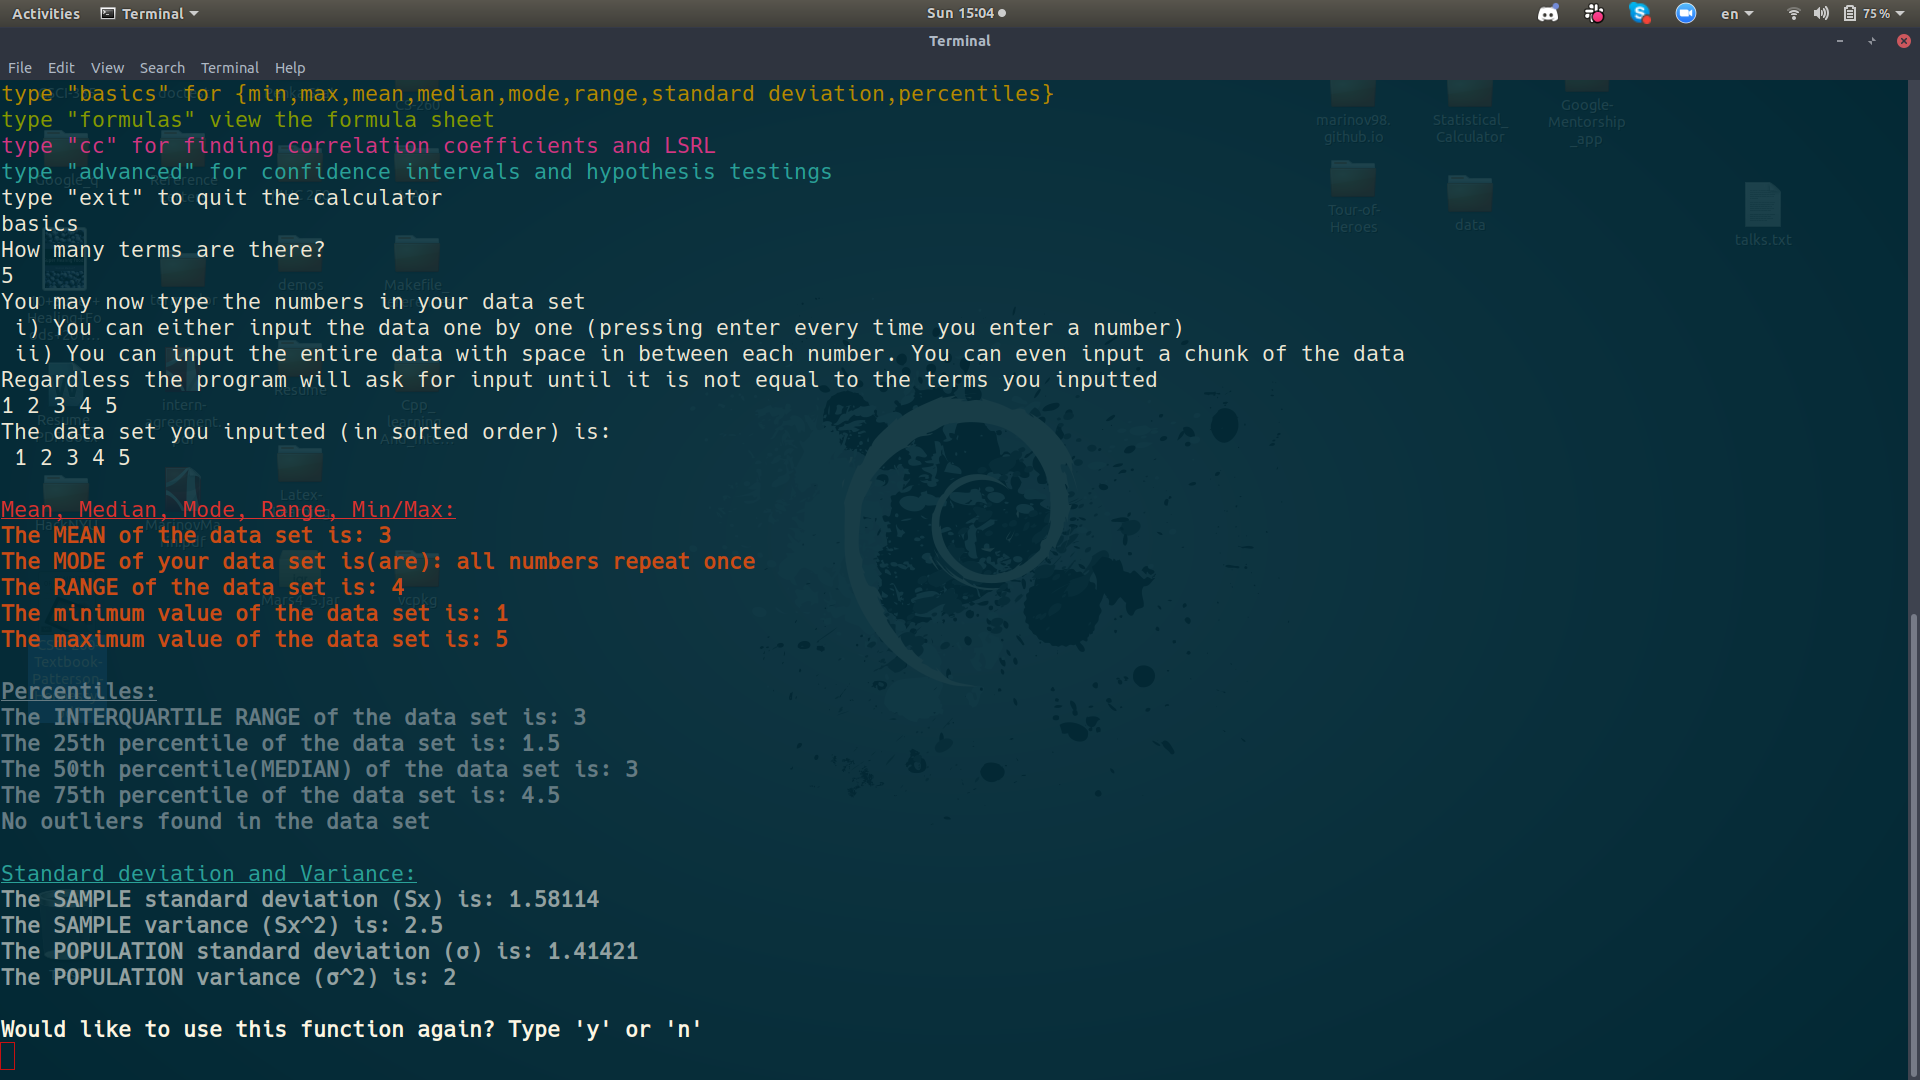
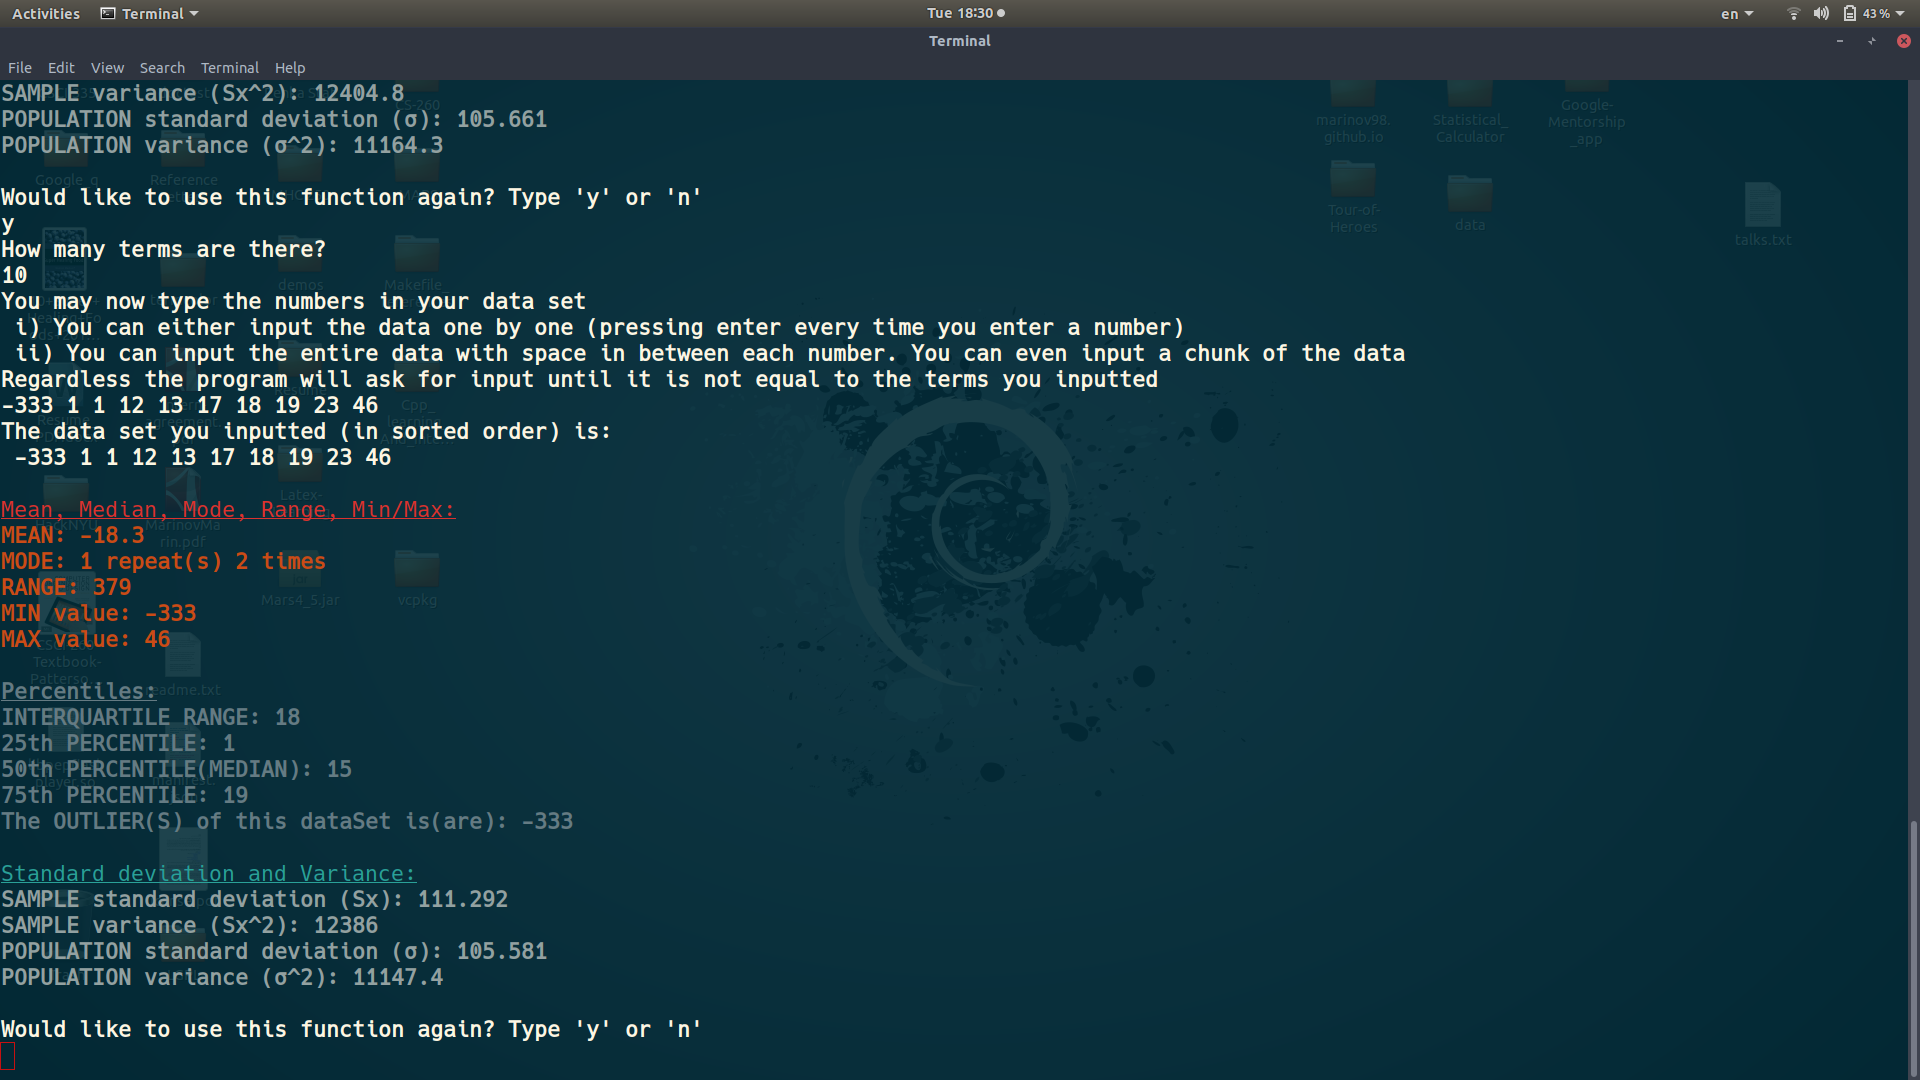
removed uneccessary parameter and added better pictures

diff --git a/src/correlation.cpp b/src/correlation.cpp
@@ -28,33 +28,38 @@ void displayDatasetXY(const std::vector<double>& datasetX, const std::vector<dou
 }
 
 double calculateCorrelationCoefficient(const std::vector<double>& datasetX,
-                                       const std::vector<double>& datasetY,
-                                       const int terms) {
+                                       const std::vector<double>& datasetY) {
+	if (datasetX.size() != datasetY.size())
+		throw std::runtime_error("dataset sizes do not match!");
+
 	double sum = 0.0;
-	double x = calculateMean(datasetX, terms);
-	double y = calculateMean(datasetY, terms);
-	double sdX = calculateStandardDeviation(datasetX, terms).sample;
-	double sdY = calculateStandardDeviation(datasetY, terms).sample;
+	double x = calculateMean(datasetX);
+	double y = calculateMean(datasetY);
+	double sdX = calculateStandardDeviation(datasetX).sample;
+	double sdY = calculateStandardDeviation(datasetY).sample;
 
 	if (sdX == 0 || sdY == 0)
 		throw std::runtime_error("Attempted to divide by 0\n");
 
-	for (int i = 0; i < terms; i++) {
+	for (size_t i = 0; i < datasetX.size(); i++) {
 		sum += (((datasetX[i] - x) / sdX) * ((datasetY[i] - y) / sdY));
 	}
 
-	return (sum / (terms - 1));
+	return (sum / (datasetX.size() - 1));
 }
 
 double calculateSlope(const std::vector<double>& datasetX,
-                      const std::vector<double>& datasetY,
-                      const int terms) {
+                      const std::vector<double>& datasetY) {
+
+	if (datasetX.size() != datasetY.size())
+		throw std::runtime_error("dataset sizes do not match!");
+
 	double top = 0.0;
 	double bottom = 0.0;
-	double x = calculateMean(datasetX, terms);
-	double y = calculateMean(datasetY, terms);
+	double x = calculateMean(datasetX);
+	double y = calculateMean(datasetY);
 
-	for (int i = 0; i < terms; i++) {
+	for (size_t i = 0; i < datasetX.size(); i++) {
 		double temp = (datasetX[i] - x);
 		bottom += (temp * temp);
 		top += ((datasetX[i] - x) * (datasetY[i] - y));
@@ -67,32 +72,29 @@ double calculateSlope(const std::vector<double>& datasetX,
 }
 
 double calculateYintercept(const std::vector<double>& datasetX,
-                           const std::vector<double>& datasetY,
-                           const int terms) {
-	double x = calculateMean(datasetX, terms);
-	double y = calculateMean(datasetY, terms);
-	double b = calculateSlope(datasetX, datasetY, terms);
+                           const std::vector<double>& datasetY) {
+	double x = calculateMean(datasetX);
+	double y = calculateMean(datasetY);
+	double b = calculateSlope(datasetX, datasetY);
 
 	return (y - b * x);
 }
 
 void displayLSRL(const std::vector<double>& datasetX,
-                 const std::vector<double>& datasetY,
-                 const int terms) {
-	double x = calculateMean(datasetX, terms);
-	double y = calculateMean(datasetY, terms);
-	double b = calculateSlope(datasetX, datasetY, terms);
-	double a = calculateYintercept(datasetX, datasetY, terms);
-	double r = calculateCorrelationCoefficient(datasetX, datasetY, terms);
+                 const std::vector<double>& datasetY) {
+
+	double b = calculateSlope(datasetX, datasetY);
+	double a = calculateYintercept(datasetX, datasetY);
+	double r = calculateCorrelationCoefficient(datasetX, datasetY);
 
 	std::cout << "Correlation Coefficient report: " << '\n';
-	std::cout << "The Mean value of the x values is: " << x << '\n';
-	std::cout << "The Mean value of the y values is: " << y << '\n';
-	std::cout << "The slope of the LSRL is: " << b << '\n';
-	std::cout << "The y intercept is: " << a << '\n';
+	std::cout << "MEAN (x values): " << calculateMean(datasetX) << '\n';
+	std::cout << "MEAN (y values): " << calculateMean(datasetY) << '\n';
+	std::cout << "SLOPE of LSRL: " << b << '\n';
+	std::cout << "Y-INTERCEPT: " << a << '\n';
 	std::cout << '\n' << "Your equation is: " << '\n';
 	std::cout << "ŷ = " << a << " + " << b << "x" << '\n';
-	std::cout << "The Correlation Coefficient is: " << r << '\n';
+	std::cout << "CORRELATION COEFFICIENT: " << r << '\n';
 	if (r >= -0.5 && r <= 0.5) {
 		std::cout << "Weak correlation" << '\n';
 	}

diff --git a/src/main.cpp b/src/main.cpp
@@ -65,7 +65,7 @@ int main(int argc, char* argv[]) {
 					std::cout << data << " ";
 				});
 
-				std::cout << "\nMEAN: " << calculateMean(dataset, dataset.size()) << '\n';
+				std::cout << "\nMEAN: " << calculateMean(dataset) << '\n';
 				if (dataset.size() > 3) {
 					std::cout << "INTERQUARTILE RANGE: " << calculateInterquartileRange(dataset)
 					          << '\n';
@@ -76,7 +76,7 @@ int main(int argc, char* argv[]) {
 				std::cout << "RANGE: " << calculateRange(dataset) << '\n';
 				displayMinMax(dataset);
 				findOutliers(dataset);
-				displayStandardDeviation(dataset, dataset.size());
+				displayStandardDeviation(dataset);
 				std::cout << '\n';
 				// erase terms once finished showing numbers to user
 				dataset.clear();
@@ -186,10 +186,10 @@ int main(int argc, char* argv[]) {
 						          << "Mean, Median, Mode, Range, Min/Max:" << termcolor::reset
 						          << '\n';
 						std::cout << termcolor::bold << termcolor::red
-						          << "MEAN: " << calculateMean(dataset, terms) << '\n';
+						          << "MEAN: " << calculateMean(dataset) << '\n';
 						std::cout << "MODE: ";
 						calculateMode(dataset);
-						std::cout << "RANGE " << calculateRange(dataset) << '\n';
+						std::cout << "RANGE: " << calculateRange(dataset) << '\n';
 						displayMinMax(dataset);
 						std::cout << termcolor::reset;
 						std::cout << termcolor::bold << termcolor::yellow;
@@ -207,7 +207,7 @@ int main(int argc, char* argv[]) {
 						std::cout << termcolor::underline << termcolor::cyan
 						          << "Standard deviation and Variance:" << termcolor::reset << '\n';
 						std::cout << termcolor::bold << termcolor::cyan;
-						displayStandardDeviation(dataset, terms);
+						displayStandardDeviation(dataset);
 						std::cout << '\n';
 						// erase terms once finished showing numbers to user
 						dataset.clear();
@@ -546,7 +546,7 @@ int main(int argc, char* argv[]) {
 						displayDatasetXY(datasetX, datasetY);
 						std::cout << termcolor::reset << '\n';
 						std::cout << termcolor::bold << termcolor::cyan;
-						displayLSRL(datasetX, datasetY, terms);
+						displayLSRL(datasetX, datasetY);
 					}
 					// clear excessive inputs
 					std::cin.ignore(100000, '\n');

diff --git a/src/basics.cpp b/src/basics.cpp
@@ -55,8 +55,8 @@ void displayPercentiles(const std::vector<double>& dataSet) {
 }
 
 // displays standard deviation to the user
-void displayStandardDeviation(const std::vector<double>& dataSet, const int terms) {
-	const DataType& sd = calculateStandardDeviation(dataSet, terms);
+void displayStandardDeviation(const std::vector<double>& dataSet) {
+	const DataType& sd = calculateStandardDeviation(dataSet);
 
 	std::cout << "SAMPLE standard deviation (Sx): " << sd.sample << '\n';
 	std::cout << "SAMPLE variance (Sx^2): " << (sd.sample * sd.sample) << '\n';
@@ -66,12 +66,12 @@ void displayStandardDeviation(const std::vector<double>& dataSet, const int term
 
 // Functions for finding MEAN, MEDIAN, RANGE, and
 
-double calculateMean(const std::vector<double>& dataSet, const int terms) {
+double calculateMean(const std::vector<double>& dataSet) {
 	// Safety
-	if (terms <= 0 || dataSet.empty())
-		throw std::runtime_error("Invalid number of terms or vector size");
+	if (dataSet.empty())
+		throw std::runtime_error("Empty Dataset");
 
-	return (std::accumulate(dataSet.begin(), dataSet.end(), 0.0) / terms);
+	return (std::accumulate(dataSet.begin(), dataSet.end(), 0.0) / dataSet.size());
 }
 
 double calculateRange(const std::vector<double>& dataSet) {
@@ -152,12 +152,12 @@ void calculateMode(const std::vector<double>& dataSet) {
 }
 
 // standard deviation and variance
-DataType calculateStandardDeviation(const std::vector<double>& dataSet, int terms) {
+DataType calculateStandardDeviation(const std::vector<double>& dataSet) {
 	// Safety
-	if (terms <= 1 || dataSet.empty())
+	if (dataSet.empty())
 		throw std::runtime_error("Invalid number of terms or vector size");
 
-	double mean = calculateMean(dataSet, terms);
+	double mean = calculateMean(dataSet);
 	DataType sd;
 
 	for (const auto& number : dataSet) {
@@ -166,8 +166,8 @@ DataType calculateStandardDeviation(const std::vector<double>& dataSet, int term
 		sd.population += (temp * temp);
 	}
 
-	sd.sample = std::sqrt(sd.sample / (terms - 1));
-	sd.population = std::sqrt(sd.population / (terms));
+	sd.sample = std::sqrt(sd.sample / (dataSet.size() - 1));
+	sd.population = std::sqrt(sd.population / (dataSet.size()));
 	return sd;
 }
 

diff --git a/src/correlation.hpp b/src/correlation.hpp
@@ -14,21 +14,17 @@ purpose: correlation header file. Calculates slope, y-intercept, LSRL line and C
 void sortDatasetXY(std::vector<double>& datasetX, std::vector<double>& datasetY);
 void displayDatasetXY(const std::vector<double>& datasetX, const std::vector<double>& datasetY);
 void displayLSRL(const std::vector<double>& datasetX,
-			     const std::vector<double>& datasetY,
-			     int terms);
+			     const std::vector<double>& datasetY);
 
 // calculation functions
 
 // Correlation Coefficient
 double calculateCorrelationCoefficient(const std::vector<double>& datasetX,
-                                       const std::vector<double>& datasetY,
-                                       int terms);
+                                       const std::vector<double>& datasetY);
 // Slope
 double calculateSlope(const std::vector<double>& datasetX,
-		              const std::vector<double>& datasetY,
-		              int terms);
+		              const std::vector<double>& datasetY);
 
 // Y-intercept
 double calculateYintercept(const std::vector<double>& datasetX,
-                           const std::vector<double>& datasetY,
-                           int terms);
+                           const std::vector<double>& datasetY);

diff --git a/src/basics.hpp b/src/basics.hpp
@@ -34,15 +34,15 @@ struct Percentile {
 // sorting and printing functions
 void sortDataset(std::vector<double>& dataSet);
 void displayDataset(const std::vector<double>& dataSet);
-void displayStandardDeviation(const std::vector<double>& dataSet, int terms);
+void displayStandardDeviation(const std::vector<double>& dataSet);
 void displayMinMax(const std::vector<double>& dataSet);
 void displayPercentiles(const std::vector<double>& dataSet);
 
 // calculation and functionality functions
-double calculateMean(const std::vector<double>& dataSet, int terms);
+double calculateMean(const std::vector<double>& dataSet);
 double calculateRange(const std::vector<double>& dataset);
 Percentile calculatePercentiles(const std::vector<double>& dataSet);
 void calculateMode(const std::vector<double>& dataSet);
-DataType calculateStandardDeviation(const std::vector<double>& dataSet, int terms);
+DataType calculateStandardDeviation(const std::vector<double>& dataSet);
 double calculateInterquartileRange(const std::vector<double>& dataSet);
 void findOutliers(const std::vector<double>& dataSet);
